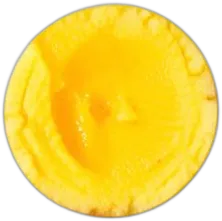
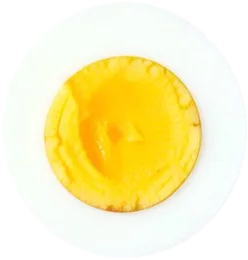
Accueil : « Tous les restos » ouvre la liste des restaurants, les grandes images reviennent à la première ; vitrine : nom sous chaque ingrédient, vrai demi-œuf
Claude-Session: https://claude.ai/code/session_01HjyNE8jb2CVL8HhFoocmFa

diff --git a/livraison/client.js b/livraison/client.js
@@ -4429,27 +4429,43 @@ function vtDish(i, instant) {
   old.forEach(e => e.classList.add(e.classList.contains("vt-dish") ? "out" : "gone"));
   setTimeout(() => old.forEach(e => e.remove()), instant ? 0 : 320);
   const build = () => {
-    const cx = plate.clientWidth / 2 || 190, cy = 170, off = vt.off[d.product] || [], add = vt.add[d.product] || [];
+    const cx = plate.clientWidth / 2 || 190, cy = (plate.clientHeight || 350) / 2 - 5, off = vt.off[d.product] || [], add = vt.add[d.product] || [];
     // (patron 24/11 : « la nourriture autour qui dépasse ») tout le plat rétrécit pour que chaque ingrédient reste dans l'écran
     const ext = Math.max(1, ...(d.ing || []).map(g => Math.abs(g.x) + g.w / 2)), sc = Math.min(1, (cx - 6) / ext);
     const im = new Image(); im.className = "vt-dish out"; im.src = d.img; im.alt = UI.bi(p.name); im.style.width = Math.round((d.w || 220) * sc) + "px"; plate.appendChild(im);
     (d.ing || []).map(g => Object.assign({}, g, { x: g.x * sc, y: g.y * sc, w: Math.round(g.w * sc) })).forEach((g, k) => {
       const tap = g.off || g.add, el = document.createElement(tap ? "button" : "span"), xx = rtl ? -g.x : g.x;
-      el.className = "vt-ing gone" + (g.front ? " f" : "") + (tap ? " tap" : "") + ((g.off && off.includes(g.off)) ? " x" : "") + ((g.add && add.includes(g.add)) ? " plus" : "");
+      el.className = "vt-ing gone" + (g.y < -20 ? " up" : "") + (g.front ? " f" : "") + (tap ? " tap" : "") + ((g.off && off.includes(g.off)) ? " x" : "") + ((g.add && add.includes(g.add)) ? " plus" : "");
       if (tap) { el.type = "button"; if (g.off) el.dataset.vtOff = g.off; else el.dataset.vtPlus = g.add;
         el.setAttribute("aria-label", g.off ? `${t("modNo")} ${modLbl(g.off)}` : UI.bi((vtProd(g.add) || {}).name || "")); }
       el.style.cssText = `width:${g.w}px;left:${cx + xx - g.w / 2}px;top:${cy + g.y - g.w / 2}px;--fx:${-xx}px;--fy:${-g.y}px;--r:${g.r || 0}deg`;
-      el.innerHTML = `<img src="${UI.esc(g.img)}" alt="" />${tap ? `<i>${g.off ? "−" : "+"}</i>` : ""}`;
+      el.innerHTML = `<img src="${UI.esc(g.img)}" alt="" />${tap ? `<i>${g.off ? "−" : "+"}</i>` : ""}${vtIngLbl(g) ? `<b class="vt-lbl">${UI.esc(vtIngLbl(g))}</b>` : ""}`;
       plate.appendChild(el); setTimeout(() => el.classList.remove("gone"), 110 + k * 55);
     });
     const tg = (d.tags || {})[I18N.lang] || (d.tags || {}).fr || [];
     tg.slice(0, 2).forEach((txt, k) => { const s = document.createElement("span"); s.className = "vt-tag gone" + (k ? " w" : ""); s.textContent = txt;
-      s.style.cssText = k ? `top:304px;${rtl ? "left" : "right"}:${cx - 128}px` : `top:44px;${rtl ? "right" : "left"}:${cx - 44}px`; plate.appendChild(s); setTimeout(() => s.classList.remove("gone"), 420); });
+      s.style.cssText = k ? `top:${cy + 134}px;${rtl ? "left" : "right"}:${cx - 128}px` : `top:${cy - 126}px;${rtl ? "right" : "left"}:${cx - 44}px`; plate.appendChild(s); setTimeout(() => s.classList.remove("gone"), 420); });
     requestAnimationFrame(() => requestAnimationFrame(() => im.classList.remove("out")));
+    // noms des ingrédients au bord : on les ramène dans l'écran une fois les ingrédients posés
+    setTimeout(() => { const P = plate.getBoundingClientRect(); plate.querySelectorAll(".vt-lbl").forEach(l => { l.style.marginLeft = "";
+      const r = l.getBoundingClientRect(), d = r.left < P.left + 4 ? P.left + 4 - r.left : r.right > P.right - 4 ? P.right - 4 - r.right : 0;
+      if (d) l.style.marginLeft = Math.round(d) + "px"; }); }, 1000);
     $("#vtN").textContent = UI.bi(p.name); $("#vtD").textContent = UI.bi(p.description || "");
     vtPicks();
   };
   instant ? build() : setTimeout(build, 260);
+}
+// (patron 24/11 : « que ça soit logique avec le sandwich ») chaque ingrédient porte son nom : celui du « sans … » s'il s'enlève,
+// la sauce vendue à part, sinon le nom de sa photo (img/<boutique>/<ingrédient>.webp) ; cfg.ing[].lbl {fr, he} pour un autre nom
+const VT_ING = { poulet: ["Poulet", "עוף"], saumon: ["Saumon", "סלמון"], charcuterie: ["Jambon de veau", "נקניק עגל"], mozzarella: ["Burrata", "בוראטה"],
+  huile: ["Huile d'olive", "שמן זית"], steak: ["Steak", "קציצה"], pain: ["Pain brioché", "לחמניית בריוש"], oignon: ["Oignon", "בצל"], thon: ["Thon", "טונה"], boeuf: ["Bœuf", "בקר"] };
+function vtIngLbl(g) {
+  const he = I18N.lang === "he";
+  if (g.lbl) return g.lbl[he ? "he" : "fr"] || g.lbl.fr || "";
+  if (g.off) { const l = modLbl(g.off); return l.charAt(0).toUpperCase() + l.slice(1); }
+  if (g.add) { const pr = vtProd(g.add); return pr ? UI.bi(pr.name) : ""; }
+  const k = String(g.img || "").split("/").pop().replace(/\.\w+$/, ""), v = VT_ING[k];
+  return v ? v[he ? 1 : 0] : "";
 }
 function vtPicks() {
   const d = vt.cfg.dishes[vt.cur], p = vtProd(d.product), off = vt.off[d.product] || [], add = vt.add[d.product] || [];
@@ -4536,6 +4552,15 @@ function d5Home() {
   const paint = () => dots.forEach((d, k) => d.classList.toggle("on", k === cur));
   tr.addEventListener("scroll", () => { const k = Math.round(Math.abs(tr.scrollLeft) / tr.clientWidth); if (k !== cur) { cur = k; paint(); } }, { passive: true });
   ["touchstart", "touchmove", "pointerdown"].forEach(ev => tr.addEventListener(ev, () => { user = Date.now(); }, { passive: true }));
+  // (patron 24/11 : « le scroll doit pouvoir ramener à la première image ») glisser encore après la dernière image revient
+  // à la première, et glisser en arrière sur la première va à la dernière
+  const go = k => { cur = (k + S.length) % S.length; tr.scrollTo({ left: (he ? -1 : 1) * cur * tr.clientWidth, behavior: "smooth" }); paint(); };
+  let x0 = null, k0 = 0;
+  tr.addEventListener("touchstart", e => { x0 = e.touches[0].clientX; k0 = cur; }, { passive: true });
+  tr.addEventListener("touchend", e => {
+    if (x0 == null) return; const dx = (e.changedTouches[0].clientX - x0) * (he ? -1 : 1); x0 = null;
+    setTimeout(() => { if (cur !== k0) return; if (dx < -40 && k0 === S.length - 1) go(0); else if (dx > 40 && k0 === 0) go(S.length - 1); }, 260);
+  }, { passive: true });
   clearInterval(d5Home.t);
   d5Home.t = setInterval(() => { if (Date.now() - user < 6000 || document.hidden || (document.body.dataset.view || "home") !== "home") return; cur = (cur + 1) % S.length; tr.scrollTo({ left: (he ? -1 : 1) * cur * tr.clientWidth, behavior: "smooth" }); paint(); }, 4600);
   // 2. La bande de mots : ce qu'on fait + les restos et magasins qu'il y a
@@ -4618,6 +4643,8 @@ document.addEventListener("click", e => {
   if (id === "promo") return openPromosAll("");
   if (id === "shops") return d4MagOpen();
   if (id === "mikve") return mikveOpen();
+  // (patron 24/11 : « Tous les restos ne fonctionne pas ») la liste des restaurants, directement
+  if (id === "resto") { d4m.f = "k:restaurant"; d4m.q = ""; return d4MagOpen(); }
   const kb = document.querySelector(`#homeKinds .ch-kind[data-kind="${id}"], #homeKinds [data-kind="${id}"]`);
   if (kb) return kb.click();
   const t4 = document.querySelector(`#d4Tiles [data-d4="${id}"], #d4Shops [data-d4="${id}"]`);

diff --git a/livraison/index.html b/livraison/index.html
@@ -107,9 +107,9 @@
       } catch (e) { /* ignore */ }
     })();
   </script>
-  <link rel="stylesheet" href="styles.css?v=202611241712" />
-  <link rel="stylesheet" href="d5-auto.css?v=202611241712" />
-  <link rel="stylesheet" href="d5.css?v=202611241712" />
+  <link rel="stylesheet" href="styles.css?v=202611241738" />
+  <link rel="stylesheet" href="d5-auto.css?v=202611241738" />
+  <link rel="stylesheet" href="d5.css?v=202611241738" />
 <style id="splashCss">#splash{position:fixed;inset:0;z-index:99999;display:flex;flex-direction:column;align-items:center;justify-content:center;gap:18px;background:#0F1F3D;color:#fff;transition:opacity .35s ease}#splash.out{opacity:0;pointer-events:none}#splash svg{width:min(58vw,300px);height:auto;display:block}#splash span{font:700 16px/1 Rubik,-apple-system,Arial,sans-serif;letter-spacing:.42em;margin-inline-start:.42em;opacity:.92}</style>
 </head>
 <body>
@@ -859,16 +859,16 @@
 
 <!-- (23/11) la carte se charge en arrière-plan : l'accueil s'affiche sans l'attendre -->
 <script async src="https://cdnjs.cloudflare.com/ajax/libs/leaflet/1.9.4/leaflet.min.js" onload="window.hopMapReady&&window.hopMapReady()"></script>
-<script src="config.js?v=202611241712"></script>
-<script src="i18n.js?v=202611241712"></script>
-<script src="pricing.js?v=202611241712"></script>
-<script src="store.js?v=202611241712"></script>
-<script src="chat.js?v=202611241712"></script>
-<script src="common.js?v=202611241712"></script>
-<script src="enseignes.js?v=202611241712"></script>
-<script src="places.js?v=202611241712"></script>
-<script src="rayons.js?v=202611241712"></script>
-<script src="client.js?v=202611241712"></script>
+<script src="config.js?v=202611241738"></script>
+<script src="i18n.js?v=202611241738"></script>
+<script src="pricing.js?v=202611241738"></script>
+<script src="store.js?v=202611241738"></script>
+<script src="chat.js?v=202611241738"></script>
+<script src="common.js?v=202611241738"></script>
+<script src="enseignes.js?v=202611241738"></script>
+<script src="places.js?v=202611241738"></script>
+<script src="rayons.js?v=202611241738"></script>
+<script src="client.js?v=202611241738"></script>
 <script>(function(){var s=document.getElementById("splash");if(!s)return;var t0=Date.now();function off(){var w=0;setTimeout(function(){s.classList.add("out");setTimeout(function(){s.remove()},400)},w)}off()})();</script>
 </body>
 </html>

diff --git a/livraison/coursier.html b/livraison/coursier.html
@@ -53,9 +53,9 @@
       window.addEventListener("load", function () { if (first) later(); });
     })();
   </script>
-  <script src="coursier-lang.js?v=202611241712"></script>
+  <script src="coursier-lang.js?v=202611241738"></script>
   <link rel="stylesheet" href="https://cdnjs.cloudflare.com/ajax/libs/leaflet/1.9.4/leaflet.min.css" />
-  <link rel="stylesheet" href="styles.css?v=202611241712" />
+  <link rel="stylesheet" href="styles.css?v=202611241738" />
 <style id="splashCss">#splash{position:fixed;inset:0;z-index:99999;display:flex;flex-direction:column;align-items:center;justify-content:center;gap:18px;background:#0F1F3D;color:#fff;transition:opacity .35s ease}#splash.out{opacity:0;pointer-events:none}#splash svg{width:min(58vw,300px);height:auto;display:block}#splash span{font:700 16px/1 Rubik,-apple-system,Arial,sans-serif;letter-spacing:.42em;margin-inline-start:.42em;opacity:.92}</style>
 </head>
 <body>
@@ -297,14 +297,14 @@
 
 <script src="https://cdnjs.cloudflare.com/ajax/libs/leaflet/1.9.4/leaflet.min.js"></script>
 <script src="https://cdnjs.cloudflare.com/ajax/libs/qrcodejs/1.0.0/qrcode.min.js"></script>
-<script src="config.js?v=202611241712"></script>
-<script src="i18n.js?v=202611241712"></script>
-<script src="pricing.js?v=202611241712"></script>
-<script src="store.js?v=202611241712"></script>
-<script src="chat.js?v=202611241712"></script>
-<script src="common.js?v=202611241712"></script>
-<script src="badge.js?v=202611241712"></script>
-<script src="coursier.js?v=202611241712"></script>
+<script src="config.js?v=202611241738"></script>
+<script src="i18n.js?v=202611241738"></script>
+<script src="pricing.js?v=202611241738"></script>
+<script src="store.js?v=202611241738"></script>
+<script src="chat.js?v=202611241738"></script>
+<script src="common.js?v=202611241738"></script>
+<script src="badge.js?v=202611241738"></script>
+<script src="coursier.js?v=202611241738"></script>
 <script>(function(){var s=document.getElementById("splash");if(!s)return;var t0=Date.now();function off(){var w=Math.max(0,650-(Date.now()-t0));setTimeout(function(){s.classList.add("out");setTimeout(function(){s.remove()},400)},w)}if(document.readyState==="complete")off();else addEventListener("load",off);setTimeout(off,3500)})();</script>
 </body>
 </html>

diff --git a/livraison/admin.html b/livraison/admin.html
@@ -54,7 +54,7 @@
       window.addEventListener("load", function () { if (first) later(); });
     })();
   </script>
-  <link rel="stylesheet" href="styles.css?v=202611241712" />
+  <link rel="stylesheet" href="styles.css?v=202611241738" />
 <style id="splashCss">#splash{position:fixed;inset:0;z-index:99999;display:flex;flex-direction:column;align-items:center;justify-content:center;gap:18px;background:#0F1F3D;color:#fff;transition:opacity .35s ease}#splash.out{opacity:0;pointer-events:none}#splash svg{width:min(58vw,300px);height:auto;display:block}#splash span{font:700 16px/1 Rubik,-apple-system,Arial,sans-serif;letter-spacing:.42em;margin-inline-start:.42em;opacity:.92}</style>
 </head>
 <body>
@@ -190,15 +190,15 @@
 </div>
 
 <script src="https://cdnjs.cloudflare.com/ajax/libs/leaflet/1.9.4/leaflet.min.js"></script>
-<script src="config.js?v=202611241712"></script>
-<script src="i18n.js?v=202611241712"></script>
-<script src="pricing.js?v=202611241712"></script>
-<script src="store.js?v=202611241712"></script>
-<script src="chat.js?v=202611241712"></script>
-<script src="common.js?v=202611241712"></script>
-<script src="places.js?v=202611241712"></script>
-<script src="rayons.js?v=202611241712"></script>
-<script src="admin.js?v=202611241712"></script>
+<script src="config.js?v=202611241738"></script>
+<script src="i18n.js?v=202611241738"></script>
+<script src="pricing.js?v=202611241738"></script>
+<script src="store.js?v=202611241738"></script>
+<script src="chat.js?v=202611241738"></script>
+<script src="common.js?v=202611241738"></script>
+<script src="places.js?v=202611241738"></script>
+<script src="rayons.js?v=202611241738"></script>
+<script src="admin.js?v=202611241738"></script>
 <script>(function(){var s=document.getElementById("splash");if(!s)return;var t0=Date.now();function off(){var w=Math.max(0,650-(Date.now()-t0));setTimeout(function(){s.classList.add("out");setTimeout(function(){s.remove()},400)},w)}if(document.readyState==="complete")off();else addEventListener("load",off);setTimeout(off,3500)})();</script>
 </body>
 </html>

diff --git a/livraison/bienvenue.html b/livraison/bienvenue.html
@@ -15,9 +15,9 @@
   <link rel="preconnect" href="https://fonts.googleapis.com" />
   <link rel="preconnect" href="https://fonts.gstatic.com" crossorigin />
   <link href="https://fonts.googleapis.com/css2?family=Fredoka:wght@500;600;700&family=Heebo:wght@400;500;600;700;800;900&family=Karantina:wght@700&family=IBM+Plex+Mono:wght@600&family=Caveat:wght@700&family=Rubik:wght@400;500;600;700;800&display=swap" rel="stylesheet" />
-  <link rel="stylesheet" href="styles.css?v=202611241712" />
-  <link rel="stylesheet" href="d5-auto.css?v=202611241712" />
-  <link rel="stylesheet" href="d5.css?v=202611241712" />
+  <link rel="stylesheet" href="styles.css?v=202611241738" />
+  <link rel="stylesheet" href="d5-auto.css?v=202611241738" />
+  <link rel="stylesheet" href="d5.css?v=202611241738" />
   <script>
     // Nouveau design (validé par le patron) : pour tout le monde ; ?design=1 garde l'ancien sur ce téléphone, ?design=2 revient au nouveau
     try { var dq = new URLSearchParams(location.search).get("design");
@@ -77,11 +77,11 @@
 
 <div class="ol-bar"><a class="btn btn-primary btn-lg" href="index.html" id="bvGo"></a></div>
 
-<script src="config.js?v=202611241712"></script>
-<script src="i18n.js?v=202611241712"></script>
-<script src="pricing.js?v=202611241712"></script>
-<script src="store.js?v=202611241712"></script>
-<script src="common.js?v=202611241712"></script>
+<script src="config.js?v=202611241738"></script>
+<script src="i18n.js?v=202611241738"></script>
+<script src="pricing.js?v=202611241738"></script>
+<script src="store.js?v=202611241738"></script>
+<script src="common.js?v=202611241738"></script>
 <script>
 (function () {
   "use strict";

diff --git a/livraison/on-livre.html b/livraison/on-livre.html
@@ -13,9 +13,9 @@
   <link rel="preconnect" href="https://fonts.googleapis.com" />
   <link rel="preconnect" href="https://fonts.gstatic.com" crossorigin />
   <link href="https://fonts.googleapis.com/css2?family=Fredoka:wght@500;600;700&family=Heebo:wght@400;500;600;700;800;900&family=Karantina:wght@700&family=IBM+Plex+Mono:wght@600&family=Caveat:wght@700&family=Rubik:wght@400;500;600;700;800&display=swap" rel="stylesheet" />
-  <link rel="stylesheet" href="styles.css?v=202611241712" />
-  <link rel="stylesheet" href="d5-auto.css?v=202611241712" />
-  <link rel="stylesheet" href="d5.css?v=202611241712" />
+  <link rel="stylesheet" href="styles.css?v=202611241738" />
+  <link rel="stylesheet" href="d5-auto.css?v=202611241738" />
+  <link rel="stylesheet" href="d5.css?v=202611241738" />
   <script>
     // Nouveau design (validé par le patron) : pour tout le monde ; ?design=1 garde l'ancien sur ce téléphone, ?design=2 revient au nouveau
     try { var dq = new URLSearchParams(location.search).get("design");
@@ -68,10 +68,10 @@
 
 <div class="ol-bar"><a class="btn btn-primary btn-lg" href="index.html" id="olGo"></a></div>
 
-<script src="config.js?v=202611241712"></script>
-<script src="i18n.js?v=202611241712"></script>
-<script src="pricing.js?v=202611241712"></script>
-<script src="common.js?v=202611241712"></script>
+<script src="config.js?v=202611241738"></script>
+<script src="i18n.js?v=202611241738"></script>
+<script src="pricing.js?v=202611241738"></script>
+<script src="common.js?v=202611241738"></script>
 <script>
 (function () {
   "use strict";

diff --git a/livraison/suivi.html b/livraison/suivi.html
@@ -45,9 +45,9 @@
       window.addEventListener("load", function () { if (first) later(); });
     })();
   </script>
-  <link rel="stylesheet" href="styles.css?v=202611241712" />
-  <link rel="stylesheet" href="d5-auto.css?v=202611241712" />
-  <link rel="stylesheet" href="d5.css?v=202611241712" />
+  <link rel="stylesheet" href="styles.css?v=202611241738" />
+  <link rel="stylesheet" href="d5-auto.css?v=202611241738" />
+  <link rel="stylesheet" href="d5.css?v=202611241738" />
   <script>
     // Nouveau design (validé par le patron) : pour tout le monde ; ?design=1 garde l'ancien sur ce téléphone, ?design=2 revient au nouveau
     try { var dq = new URLSearchParams(location.search).get("design");
@@ -162,12 +162,12 @@
 </div>
 
 <script src="https://cdnjs.cloudflare.com/ajax/libs/leaflet/1.9.4/leaflet.min.js"></script>
-<script src="config.js?v=202611241712"></script>
-<script src="i18n.js?v=202611241712"></script>
-<script src="pricing.js?v=202611241712"></script>
-<script src="store.js?v=202611241712"></script>
-  <script src="chat.js?v=202611241712"></script>
-<script src="common.js?v=202611241712"></script>
-<script src="suivi.js?v=202611241712"></script>
+<script src="config.js?v=202611241738"></script>
+<script src="i18n.js?v=202611241738"></script>
+<script src="pricing.js?v=202611241738"></script>
+<script src="store.js?v=202611241738"></script>
+  <script src="chat.js?v=202611241738"></script>
+<script src="common.js?v=202611241738"></script>
+<script src="suivi.js?v=202611241738"></script>
 </body>
 </html>

diff --git a/livraison/commerce.html b/livraison/commerce.html
@@ -77,7 +77,7 @@
       window.addEventListener("load", function () { if (first) later(); });
     })();
   </script>
-  <link rel="stylesheet" href="styles.css?v=202611241712" />
+  <link rel="stylesheet" href="styles.css?v=202611241738" />
 </head>
 <body>
 
@@ -196,13 +196,13 @@
 <button type="button" class="wa-fab chat-fab" id="waFab"><span>💬</span><b data-i18n="chatFab"></b><i class="chat-badge hidden" id="fabBadge"></i></button>
 
 <script src="https://cdnjs.cloudflare.com/ajax/libs/qrcodejs/1.0.0/qrcode.min.js"></script>
-<script src="config.js?v=202611241712"></script>
-<script src="i18n.js?v=202611241712"></script>
-<script src="pricing.js?v=202611241712"></script>
-<script src="store.js?v=202611241712"></script>
-<script src="chat.js?v=202611241712"></script>
-<script src="common.js?v=202611241712"></script>
-<script src="places.js?v=202611241712"></script>
-<script src="commerce.js?v=202611241712"></script>
+<script src="config.js?v=202611241738"></script>
+<script src="i18n.js?v=202611241738"></script>
+<script src="pricing.js?v=202611241738"></script>
+<script src="store.js?v=202611241738"></script>
+<script src="chat.js?v=202611241738"></script>
+<script src="common.js?v=202611241738"></script>
+<script src="places.js?v=202611241738"></script>
+<script src="commerce.js?v=202611241738"></script>
 </body>
 </html>

diff --git a/livraison/styles.css b/livraison/styles.css
@@ -7863,3 +7863,9 @@ html[dir=rtl] .fi-help .fh-stops p { padding: 6px 26px 10px 0; } html[dir=rtl] .
 .pay-top p { margin: 0; display: flex; gap: 10px; align-items: flex-start; font-size: 15px; font-weight: 600; line-height: 1.35; color: #111418; }
 .pay-top p i { flex: none; width: 24px; height: 24px; border-radius: 12px; background: #111418; color: #fff; font: 800 13px/24px Heebo, sans-serif; text-align: center; font-style: normal; }
 .cs-ridepay { margin: 8px 2px 0; font-size: 15px; font-weight: 800; color: #111418; }
+/* nom de l'ingrédient sous sa photo (vitrine « menu éclaté ») */
+.vt-ing .vt-lbl { position: absolute; left: 50%; top: 100%; transform: translate(-50%, 2px) rotate(calc(-1 * var(--r))); width: max-content; max-width: 88px; text-align: center; padding: 3px 9px; border-radius: 11px; background: rgba(255,255,255,.95); color: #111418; font: 800 11.5px/1.2 Heebo, sans-serif; box-shadow: 0 3px 8px rgba(0,0,0,.18); pointer-events: none; }
+.vt-ing.x .vt-lbl { text-decoration: line-through; }
+/* noms des ingrédients : au-dessus de la photo pour ceux du haut (jamais sous le plat), la scène un peu plus haute */
+.vt-plate:has(.vt-lbl) { height: 392px; }
+.vt-ing.up .vt-lbl { top: auto; bottom: 100%; transform: translate(-50%, -2px) rotate(calc(-1 * var(--r))); }

diff --git a/livraison/badge.html b/livraison/badge.html
@@ -10,7 +10,7 @@
   <link rel="preconnect" href="https://fonts.googleapis.com" />
   <link rel="preconnect" href="https://fonts.gstatic.com" crossorigin />
   <link href="https://fonts.googleapis.com/css2?family=Fredoka:wght@500;600;700&family=Rubik:wght@400;500;600;700;800&display=swap" rel="stylesheet" />
-  <link rel="stylesheet" href="styles.css?v=202611241712" />
+  <link rel="stylesheet" href="styles.css?v=202611241738" />
   <style>
     body { background: #0F1F3D; color: #fff; min-height: 100vh; font-family: Rubik, sans-serif; }
     .bd-page { max-width: 460px; margin: 0 auto; padding: 32px 16px; text-align: center; }
@@ -26,7 +26,7 @@
     <p>Chaque livreur débloque un badge à 1, 10, 25, 50, 100, 250, 500 et 1 000 courses livrées. Il s'affiche une fois dans l'appli HOP! Livreur, puis reste dans « Statistiques ». Touchez une médaille pour la voir.</p>
     <div class="bdg-row" id="row"></div>
   </main>
-  <script src="badge.js?v=202611241712"></script>
+  <script src="badge.js?v=202611241738"></script>
   <script>
     const row = document.getElementById("row");
     row.innerHTML = Badge.MILESTONES.map(m => `<button type="button" data-n="${m.n}">${Badge.medal(m.n)}<span>${m.tier}</span></button>`).join("");

diff --git a/livraison/kit.html b/livraison/kit.html
@@ -12,7 +12,7 @@
   <link rel="preconnect" href="https://fonts.googleapis.com" />
   <link rel="preconnect" href="https://fonts.gstatic.com" crossorigin />
   <link href="https://fonts.googleapis.com/css2?family=Fredoka:wght@500;600;700&family=Rubik:wght@400;500;600;700;800&display=swap" rel="stylesheet" />
-  <link rel="stylesheet" href="styles.css?v=202611241712" />
+  <link rel="stylesheet" href="styles.css?v=202611241738" />
 </head>
 <body class="kit-page">
 
@@ -179,10 +179,10 @@
 </div>
 
 <script src="https://cdnjs.cloudflare.com/ajax/libs/qrcodejs/1.0.0/qrcode.min.js"></script>
-<script src="config.js?v=202611241712"></script>
-<script src="i18n.js?v=202611241712"></script>
-<script src="pricing.js?v=202611241712"></script>
-<script src="common.js?v=202611241712"></script>
-<script src="kit.js?v=202611241712"></script>
+<script src="config.js?v=202611241738"></script>
+<script src="i18n.js?v=202611241738"></script>
+<script src="pricing.js?v=202611241738"></script>
+<script src="common.js?v=202611241738"></script>
+<script src="kit.js?v=202611241738"></script>
 </body>
 </html>

diff --git a/livraison/recu.html b/livraison/recu.html
@@ -43,7 +43,7 @@
       window.addEventListener("load", function () { if (first) later(); });
     })();
   </script>
-  <link rel="stylesheet" href="styles.css?v=202611241712" />
+  <link rel="stylesheet" href="styles.css?v=202611241738" />
 </head>
 <body class="receipt-page">
   <main class="wrap narrow" style="padding:20px 16px 40px">
@@ -53,11 +53,11 @@
       <a class="btn" href="index.html#mes-courses">← Retour · חזרה</a>
     </div>
   </main>
-  <script src="config.js?v=202611241712"></script>
-  <script src="i18n.js?v=202611241712"></script>
-  <script src="pricing.js?v=202611241712"></script>
-  <script src="store.js?v=202611241712"></script>
-  <script src="common.js?v=202611241712"></script>
-  <script src="recu.js?v=202611241712"></script>
+  <script src="config.js?v=202611241738"></script>
+  <script src="i18n.js?v=202611241738"></script>
+  <script src="pricing.js?v=202611241738"></script>
+  <script src="store.js?v=202611241738"></script>
+  <script src="common.js?v=202611241738"></script>
+  <script src="recu.js?v=202611241738"></script>
 </body>
 </html>
